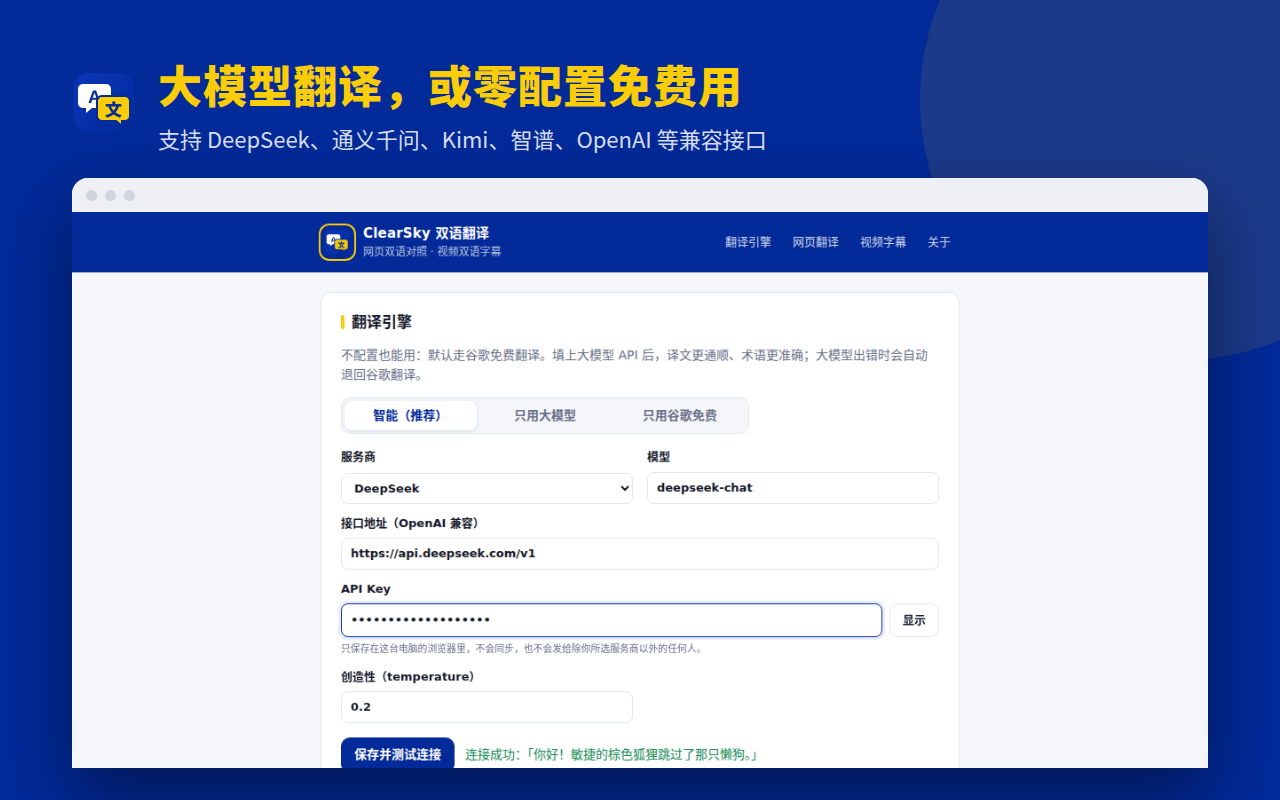
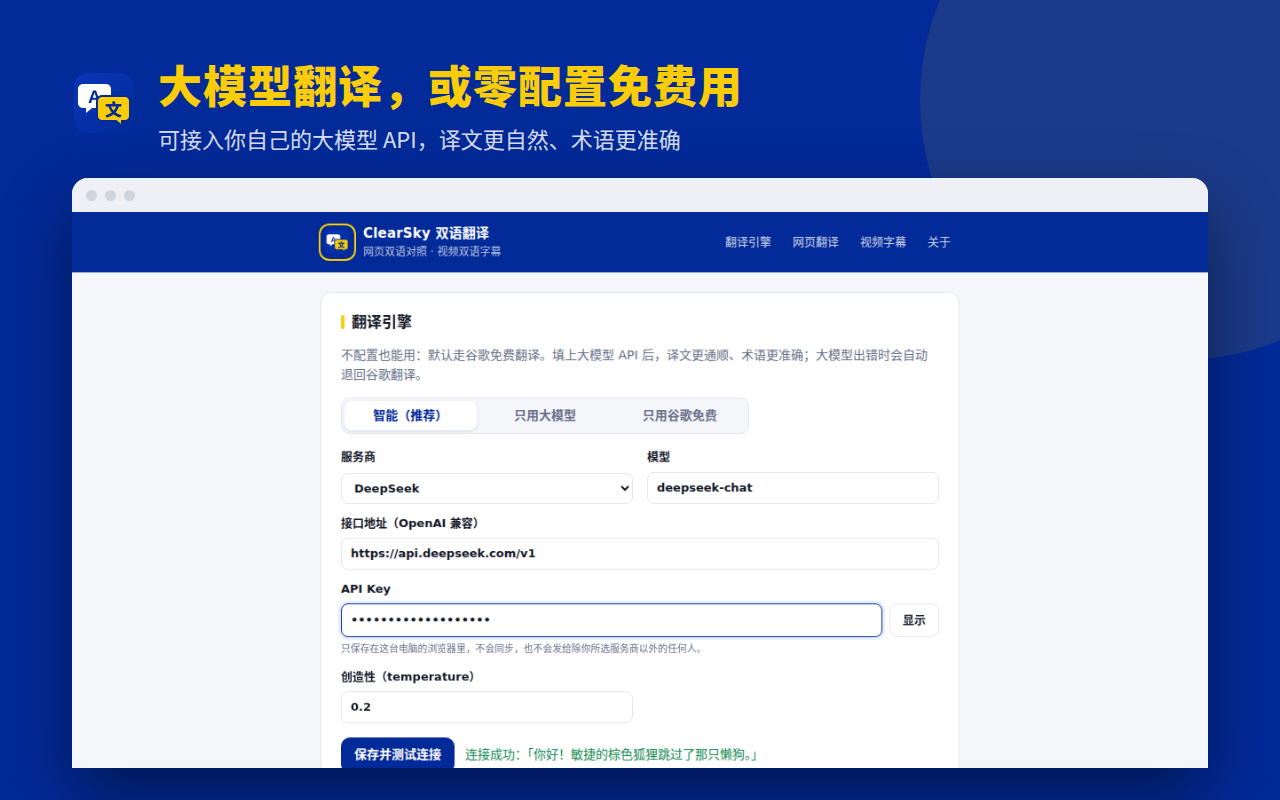
v1.0.2：修复商店审核 Yellow Argon（说明中关键字过多）
- 插件简介（三种语言）、商店详细说明、填表助手、宣传截图 4 去掉大模型服务商名称列表
- 统一改为“可接入你自己的大模型 API”
- 上架指南新增审核记录

Claude-Session: https://claude.ai/code/session_01LaoVxWkRsJec1hW3X7QaAW

Changed region(s): [[0.125, 0.1562, 0.5938, 0.1875]]

diff --git a/dev/store/填表助手.html b/dev/store/填表助手.html
@@ -36,8 +36,8 @@ pre{white-space:pre-wrap;margin:8px 0 0;background:#f5f6fa;border-radius:8px;pad
 • 字号、颜色、背景透明度可调，可只显示译文
 
 【翻译引擎】
-• 零配置：默认使用谷歌免费翻译
-• 接入大模型：DeepSeek、通义千问（阿里云百炼）、Kimi、智谱 GLM、OpenAI、OpenRouter，或任何 OpenAI 兼容接口
+• 零配置：默认使用免费在线翻译，装上就能用
+• 接入大模型：填入你自己的大模型 API Key（兼容 OpenAI 接口格式），译文更自然、术语更准确
 • 智能模式：大模型出错时自动退回免费翻译，不会翻译到一半卡住
 
 【隐私】

diff --git a/dev/design/compose.py b/dev/design/compose.py
@@ -7,7 +7,7 @@ SLIDES = [
   ('screenshot-1-bilingual.png', '网页双语对照', '原文、译文上下对照，读外文资料不再来回切换', 'shots/article-bilingual.png'),
   ('screenshot-2-replace.png', '一键切换“仅显示译文”', '整页变中文，链接照常可点；随时切回双语，不重复请求', 'shots/article-replace.png'),
   ('screenshot-3-video.png', '视频双语字幕', '自动生成的字幕先按句断开再翻译，中英两行同步显示', 'shots/video.png'),
-  ('screenshot-4-engine.png', '大模型翻译，或零配置免费用', '支持 DeepSeek、通义千问、Kimi、智谱、OpenAI 等兼容接口', 'shots/options.png'),
+  ('screenshot-4-engine.png', '大模型翻译，或零配置免费用', '可接入你自己的大模型 API，译文更自然、术语更准确', 'shots/options.png'),
 ]
 CSS = '''*{margin:0;box-sizing:border-box}body{width:1280px;height:800px;overflow:hidden;background:#022A99;font-family:"Noto Sans CJK SC",sans-serif;color:#fff;position:relative}
 .bg{position:absolute;right:-160px;top:-160px;width:520px;height:520px;border-radius:50%;background:rgba(251,205,8,.10)}
